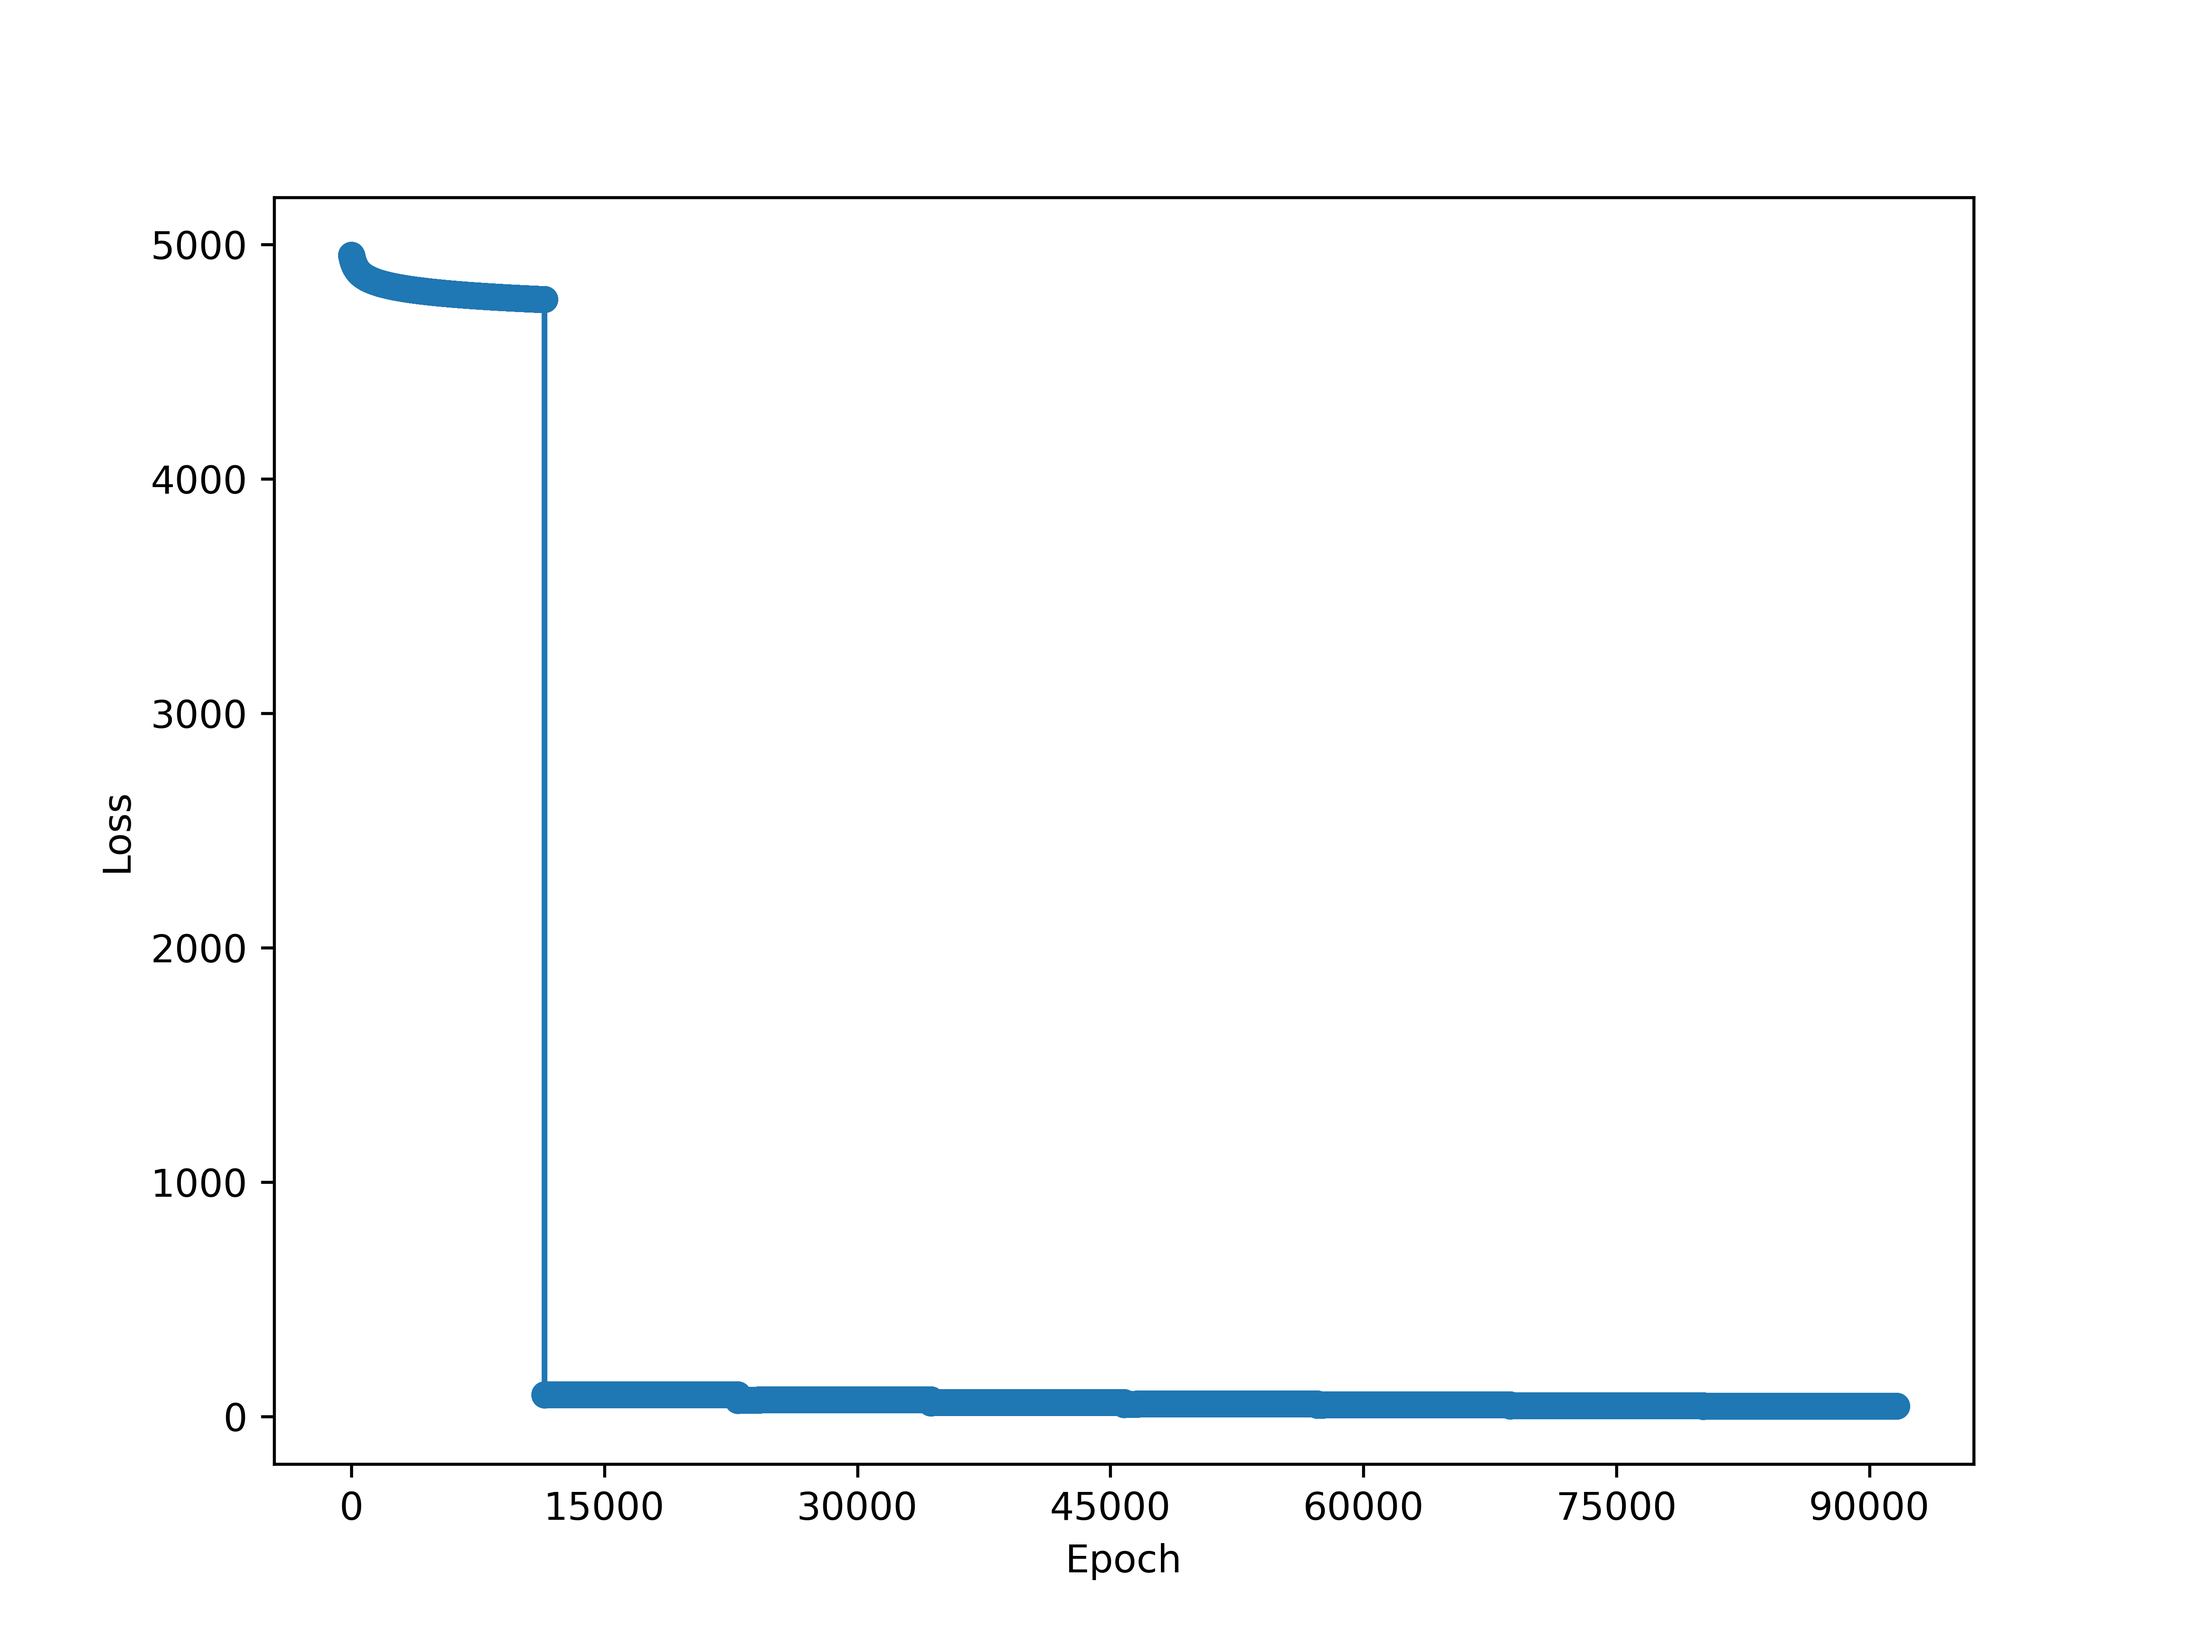
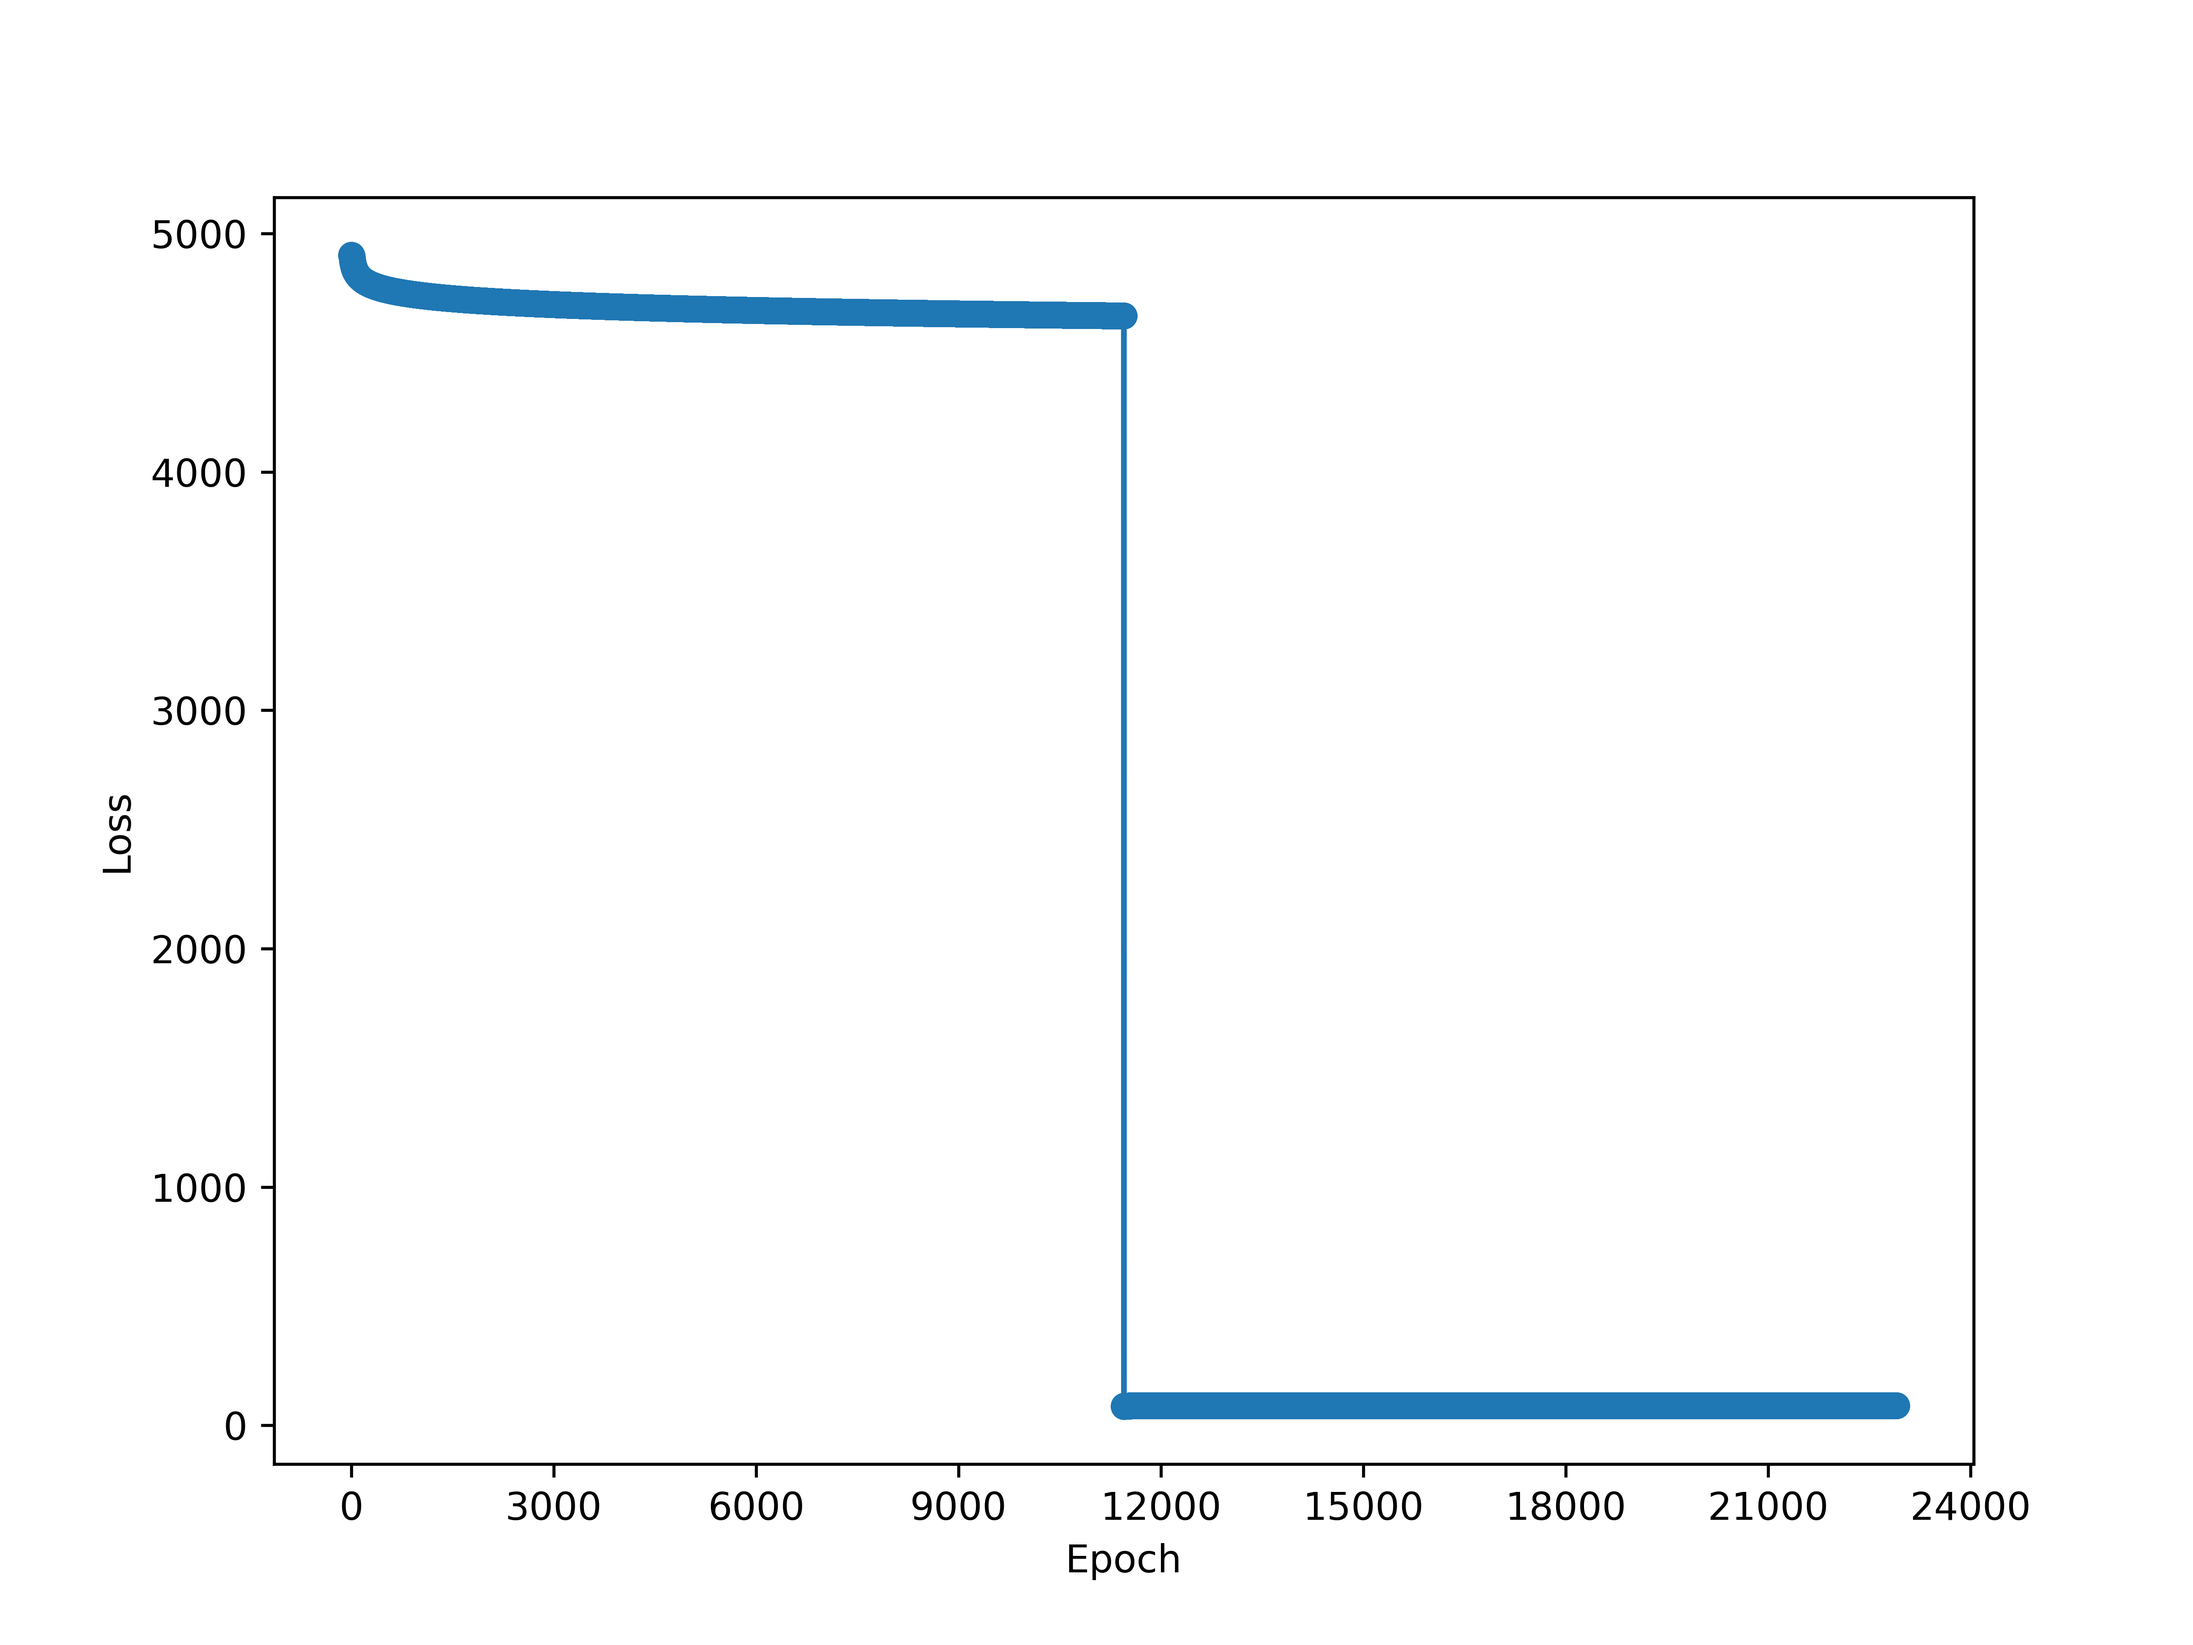
feat: lm built

diff --git a/trigram.py b/trigram.py
@@ -5,26 +5,31 @@ import torch.nn as nn
 from SpinTorch.spintorch.RNN_film import RNN_film
 import SpinTorch.spintorch as spintorch
 import os
+import matplotlib.pyplot as plt
 
 
 class MyTrigram(nn.Module):
-    def __init__(self, vocab_size, batch_size, embed_size=80, Bt=0.01):
+    def __init__(self, vocab_size, batch_size, embed_size=10, Bt=0.01):
         super(MyTrigram, self).__init__()
         self.vocab_size = vocab_size
         self.batch_size = batch_size
         self.embed_size = embed_size
         self.Bt = Bt
-        self.film_RNN = RNN_film(self.embed_size, self.batch_size)
+        self.film_RNN = RNN_film(
+            self.embed_size, batch_size=self.batch_size, output_size=80
+        )
         self.embedding_matrix = nn.Parameter(
             torch.normal(torch.zeros(self.vocab_size, self.embed_size), std=0.01)
         )
+        # self.output_matrix = nn.Parameter(
+        #     torch.normal(torch.ones(self.vocab_size, self.embed_size) * 7.8e6, std=1e5)
+        # )
         self.output_matrix = nn.Parameter(
-            torch.normal(torch.ones(self.vocab_size, self.embed_size) * 7.8e6, std=1e5)
+            torch.normal(torch.zeros(self.vocab_size, self.embed_size), std=0.01)
         )
         self.softmax = nn.Softmax(dim=-1)
 
     def forward(self, inputs):
-        inputs = inputs
         wave_inputs = turn_into_wave(inputs, self.embedding_matrix)
         full_input = torch.cat(
             [
@@ -40,6 +45,12 @@ class MyTrigram(nn.Module):
         # it might be worthwhile to crop the output to only once both inputs have gone
         # it might also make sense to just weight later outputs more strongly. linearly increasing weights?
         film_output = film_output.sum(dim=-1)
+        print(f"ouput mean: {film_output.mean()}  output std: {film_output.std()}")
+        film_output = (film_output - film_output.mean()) * 5 / film_output.std()
+        print(
+            f"norm ouput mean: {film_output.mean()} norm output std: {film_output.std()}"
+        )
+
         distances = self.euclidean_distance(film_output)  # batch_size x vocab_size
         if distances.isnan().any():
             print("distances are none")
@@ -48,7 +59,7 @@ class MyTrigram(nn.Module):
         if normalized_distances.isnan().any():
             print("normalized distances are nan")
             exit()
-        probs = self.softmax(-normalized_distances)
+        probs = self.softmax(-distances)
         return probs
 
     def euclidean_distance(self, outputs):
@@ -75,6 +86,7 @@ class MyTrigram(nn.Module):
 
 
 def loss_fn(preds, labels):
+    print(preds[0])
     epsilon = 1e-8
     log_preds = torch.log(preds + epsilon)
     to_return = torch.nn.functional.nll_loss(log_preds, labels)
@@ -101,7 +113,7 @@ def main():
     epochs = 10
     batch_size = 128
     embed_size = 80
-    learning_rate = 0.1
+    learning_rate = 0.01
 
     dev_name = "cuda" if torch.cuda.is_available() else "cpu"
     dev = torch.device(dev_name)  # 'cuda' or 'cpu'
@@ -116,7 +128,7 @@ def main():
     X1, Y1 = np.vstack([test_array[0:-2], test_array[1:-1]]).T, test_array[2:]
     model = MyTrigram(len(vocab), batch_size, embed_size=embed_size).to(dev)
 
-    criterion = nn.CrossEntropyLoss()
+    criterion = loss_fn
     optimizer = torch.optim.Adam(model.parameters(), lr=learning_rate)
 
     model.train()
@@ -132,7 +144,9 @@ def main():
             optimizer.step()
             perp = perplexity(outputs, targets)
             loss_iter.append(loss.item())
-            spintorch.plot.plot_loss(loss_iter, plotdir, "losslr0.1embedlikeoutput")
+            spintorch.plot.plot_loss(
+                loss_iter, plotdir, "new_loss_output_normalizedstd5lr0.01"
+            )
             print(f"Epoch {epoch} Batch {i} Loss: {loss} Perplexity: {perp}")
         print("Epoch finished: perplexity: ", perp)
 

diff --git a/linear_trigram.py b/linear_trigram.py
@@ -8,33 +8,35 @@ import os
 
 
 class MyTrigram(nn.Module):
-    def __init__(self, vocab_size, batch_size, embed_size=80, Bt=0.01):
+    def __init__(self, vocab_size, batch_size, embed_size=10, output_size=50, Bt=0.01):
         super(MyTrigram, self).__init__()
         self.vocab_size = vocab_size
         self.batch_size = batch_size
         self.embed_size = embed_size
-        self.linear_layer = nn.Linear(2 * self.embed_size, self.embed_size)
+        self.output_size = output_size
+        self.linear_layer = nn.Linear(2 * self.embed_size, self.output_size)
         self.activation = nn.LeakyReLU()
-        self.second_layer = nn.Linear(50, self.embed_size)
+        self.second_layer = nn.Linear(50, self.vocab_size)
         self.sigmoid = nn.Sigmoid()
         self.softmax = nn.Softmax(dim=-1)
         self.embedding_matrix = nn.Parameter(
             torch.normal(torch.zeros(self.vocab_size, self.embed_size), std=0.01),
         )
         self.output_matrix = nn.Parameter(
-            torch.normal(torch.zeros(self.vocab_size, self.embed_size), std=0.01),
+            torch.normal(torch.zeros(self.vocab_size, self.output_size), std=0.01),
         )
 
     def forward(self, inputs):
         full_input = self.embedding_matrix[inputs.int()]
         flattened = full_input.flatten(start_dim=1, end_dim=2)
         first = self.linear_layer(flattened)
-        # activated = self.activation(first)
+        activated = self.activation(first)
         # second_layer_output = self.second_layer(activated)
         # sigmoid = self.sigmoid(second_layer_output)
-        first = (first - first.mean()) / first.std()
-        distance = self.euclidean_distance(first)
-        probs = self.softmax(-distance)
+        probs = self.softmax(activated)
+        # first = (first - first.mean()) / first.std()
+        # distance = self.euclidean_distance(first)
+        # probs = self.softmax(-distance)
         return probs
 
     def euclidean_distance(self, outputs):
@@ -87,7 +89,7 @@ def main():
     epochs = 10
     batch_size = 128
     embed_size = 80
-    learning_rate = 0.001
+    learning_rate = 0.01
 
     dev_name = "cuda" if torch.cuda.is_available() else "cpu"
     dev = torch.device(dev_name)  # 'cuda' or 'cpu'
@@ -106,10 +108,10 @@ def main():
     model.train()
     loss_iter = []
     perplexity_iter = []
+    to_print = []
     for epoch in range(epochs):
         perplexity_running_avg = 0
         loss_running_avg = 0
-        to_print = []
         for i in range(0, len(X0), batch_size):
             inputs = torch.tensor(X0[i : i + batch_size], dtype=torch.float32).to(dev)
             targets = torch.tensor(Y0[i : i + batch_size], dtype=torch.long).to(dev)
@@ -127,6 +129,13 @@ def main():
             ) / (i + 1)
             loss_iter.append(loss_running_avg)
             perplexity_iter.append(perplexity_running_avg)
+            if epoch < 1 and i // batch_size < 200:
+                to_print.append(loss.item())
+            else:
+                spintorch.plot.plot_loss(
+                    np.array(to_print), plotdir, "loss_first_50_normal_linear"
+                )
+                exit()
 
         print(
             "Epoch finished: perplexity: ", perplexity_iter[-1], "loss: ", loss_iter[-1]

diff --git a/SpinTorch/spintorch/RNN_film.py b/SpinTorch/spintorch/RNN_film.py
@@ -3,7 +3,7 @@ import SpinTorch.spintorch as spintorch
 
 
 class RNN_film(nn.Module):
-    def __init__(self, embed_size=80, batch_size=64):
+    def __init__(self, embed_size=20, output_size=50, batch_size=64):
         super(RNN_film, self).__init__()
         dx = 50e-9  # discretization (m)
         dy = 50e-9  # discretization (m)
@@ -20,10 +20,11 @@ class RNN_film(nn.Module):
         geom = spintorch.WaveGeometryFreeForm((nx, ny), (dx, dy, dz), B0, B1, Ms)
         src = spintorch.WaveLineSource(10, 0, 10, ny - 1, dim=2)
         probes = []
-        Np = embed_size  # number of probes
+        Np = output_size  # number of probes
         for p in range(Np):
             probes.append(spintorch.WaveIntensityProbe(nx - 15, int((ny - Np) / 2) + p))
         self.film = spintorch.MMSolver(geom, dt, batch_size, [src], probes)
+        self.film.retain_history = False
 
     def forward(self, inputs):
         return self.film(inputs)

diff --git a/preprocess.py b/preprocess.py
@@ -1,12 +1,14 @@
 from functools import reduce
 import numpy as np
 import torch
+import matplotlib.pyplot as plt
 
 
 def turn_into_wave(inputs, embedding_matrix):
     inputs = embedding_matrix[
         inputs.long()
     ]  # should return batch_size x words x embed_size
+    print(f"input: {inputs[0]}")
     inputs = (inputs - 7.8e6) / 2.26e6
     inputs = inputs.transpose(-1, -2)
     to_return = fm_simpler(inputs)
@@ -24,7 +26,9 @@ def fm_simpler(inputs: torch.tensor, Fi: float = 0.5e9, Ff: float = 10e9):
         .unsqueeze(0)
     )
     inputs = torch.sigmoid(inputs)  # scaled between 0 and 1
-    return torch.sin(2 * torch.pi * t * (Fi) + inputs.unsqueeze(-1) * (Ff - Fi))
+    middle = t * ((Fi) + inputs.unsqueeze(-1) * (Ff - Fi))
+    to_return = torch.sin(2 * torch.pi * middle)
+    return to_return
 
 
 def fm(inputs: torch.tensor, Fi: float = 0.5e9, Ff: float = 10e9) -> torch.tensor:

diff --git a/SpinTorch/spintorch/source.py b/SpinTorch/spintorch/source.py
@@ -13,6 +13,7 @@ class WaveSource(torch.nn.Module):
     def forward(self, B, Bt):
         Bs = B.clone()
         if Bt.shape[1] < 100:
+            reproduced = Bt.unsqueeze(2).repeat(1, 1, 8).flatten(start_dim=1, end_dim=2)
             number_to_add = 100 - Bt.shape[1]
             add_first = number_to_add // 2
             add_second = number_to_add - add_first
